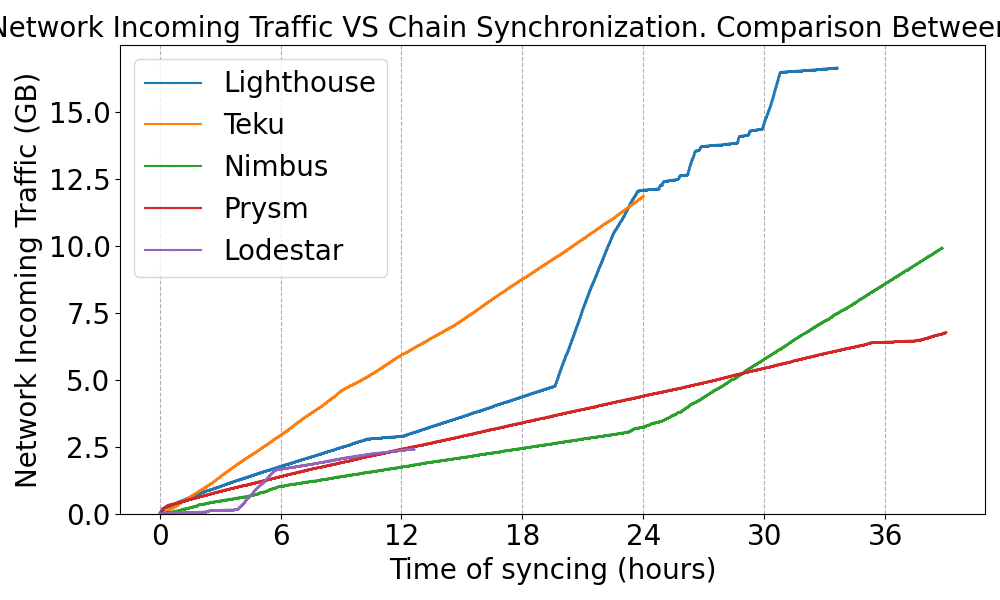
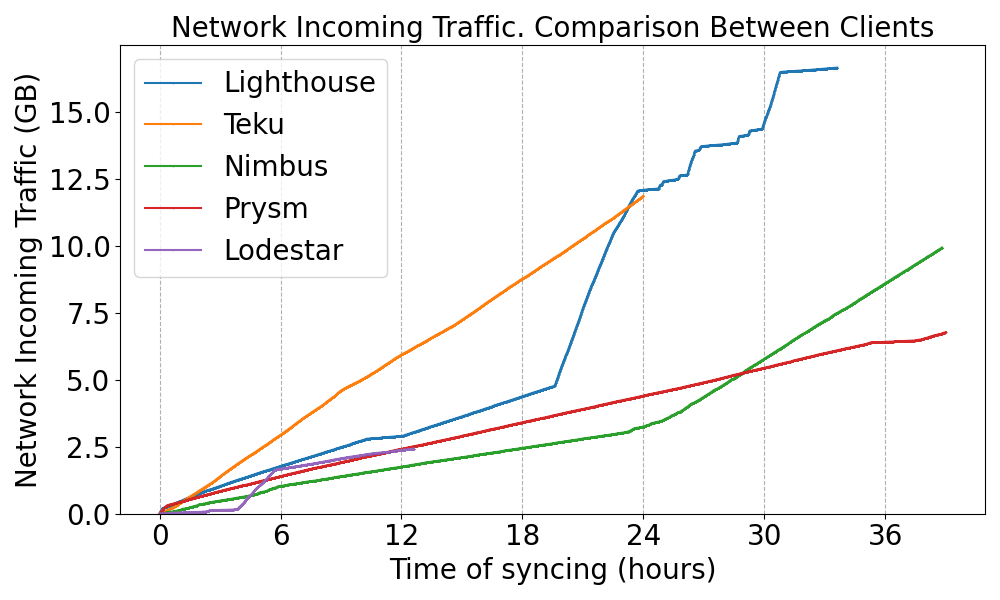
Updated title on the graph Netin of the 5 clients

Changed region(s): [[0.0, 0.03, 1.0, 0.09]]

diff --git a/ETH2-clients-comparison/scripts/plotting_scripts/plotMetrics.py b/ETH2-clients-comparison/scripts/plotting_scripts/plotMetrics.py
@@ -396,7 +396,7 @@ def plotMetricsFromPanda(lightPanda, tekuPanda, nimbusPanda, prysmPanda, lodesta
     
     # Plot 5 client NETIN on the same graph
     plotAllClientsOnly(lightPanda, tekuPanda, nimbusPanda, prysmPanda, lodestarPanda, 
-              'TIME', 'NETIN', "Network Incoming Traffic VS Chain Synchronization. Comparison Between Clients", "Network Incoming Traffic (GB)", 2, fontSize)
+              'TIME', 'NETIN', "Network Incoming Traffic. Comparison Between Clients", "Network Incoming Traffic (GB)", 2, fontSize)
     
     
     # Plot 5 client NETOUT on the same graph
